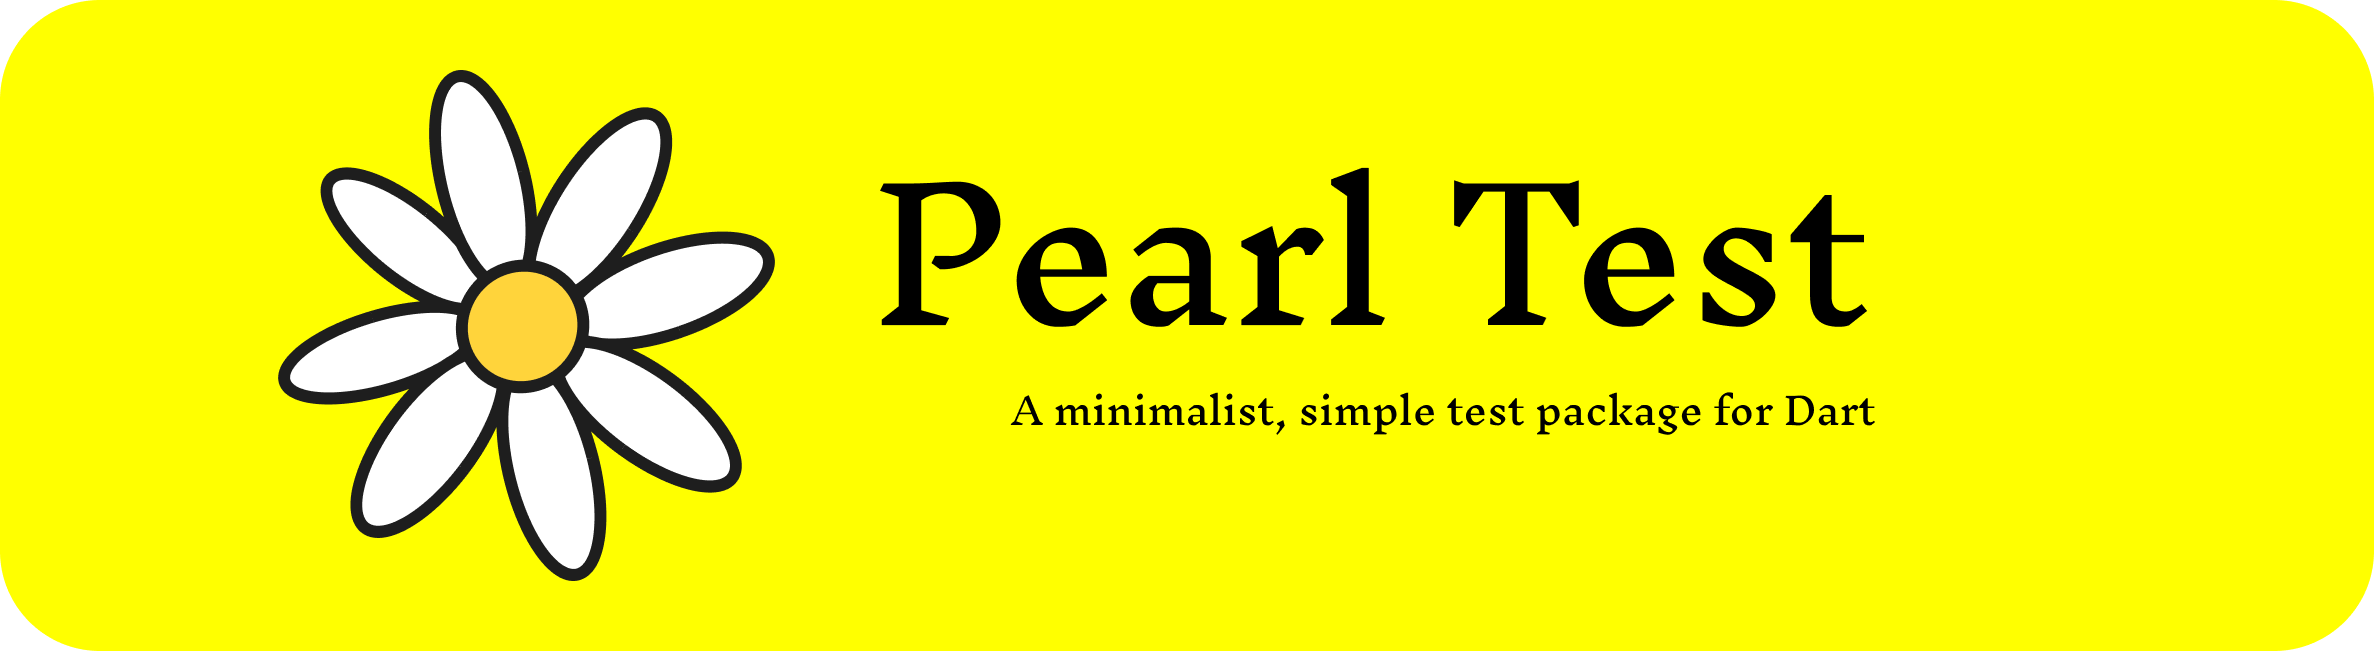
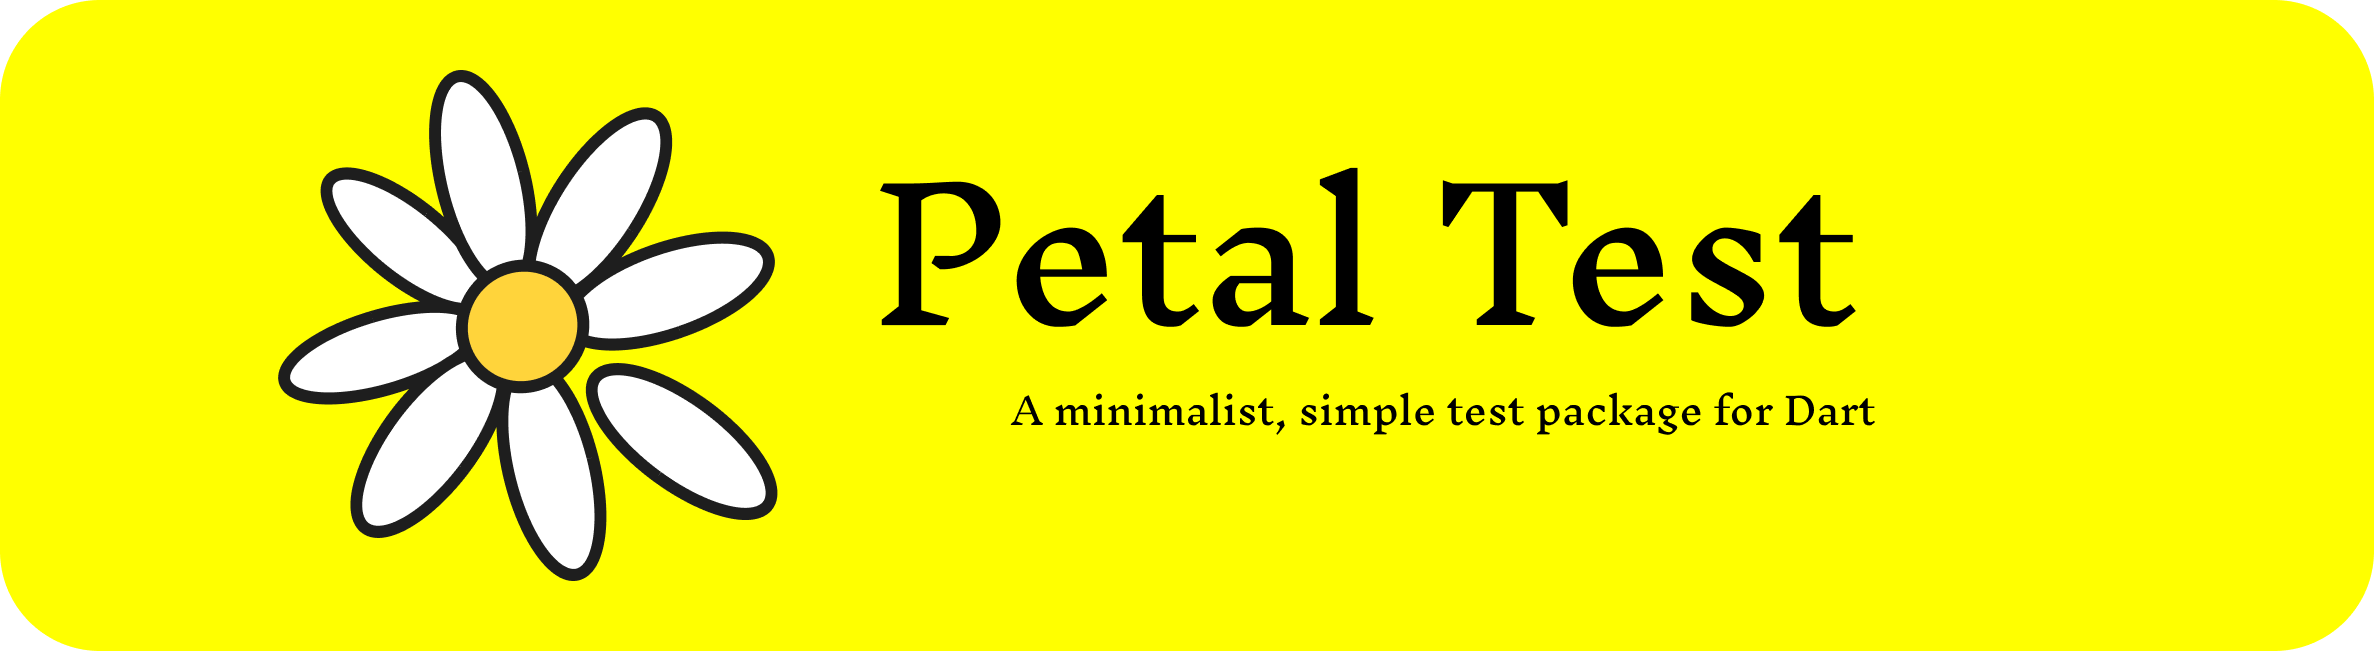
-- rename package

Changed region(s): [[0.4676, 0.2458, 0.8104, 0.5223], [0.2182, 0.5223, 0.3429, 0.7988]]

diff --git a/lib/petal_test.dart b/lib/petal_test.dart
@@ -3,6 +3,6 @@
 /// More dartdocs go here.
 library;
 
-export 'src/pearl_test_base.dart';
+export 'src/petal_test_base.dart';
 
 // TODO: Export any libraries intended for clients of this package.

diff --git a/test/petal_test_test.dart b/test/petal_test_test.dart
@@ -1,4 +1,4 @@
-import 'package:pearl_test/pearl_test.dart';
+import 'package:petal_test/petal_test.dart';
 import 'package:test/test.dart';
 
 void main() {

diff --git a/example/petal_test_example.dart b/example/petal_test_example.dart
@@ -1,4 +1,4 @@
-import 'package:pearl_test/pearl_test.dart';
+import 'package:petal_test/petal_test.dart';
 
 void main() {
   var awesome = Awesome();
